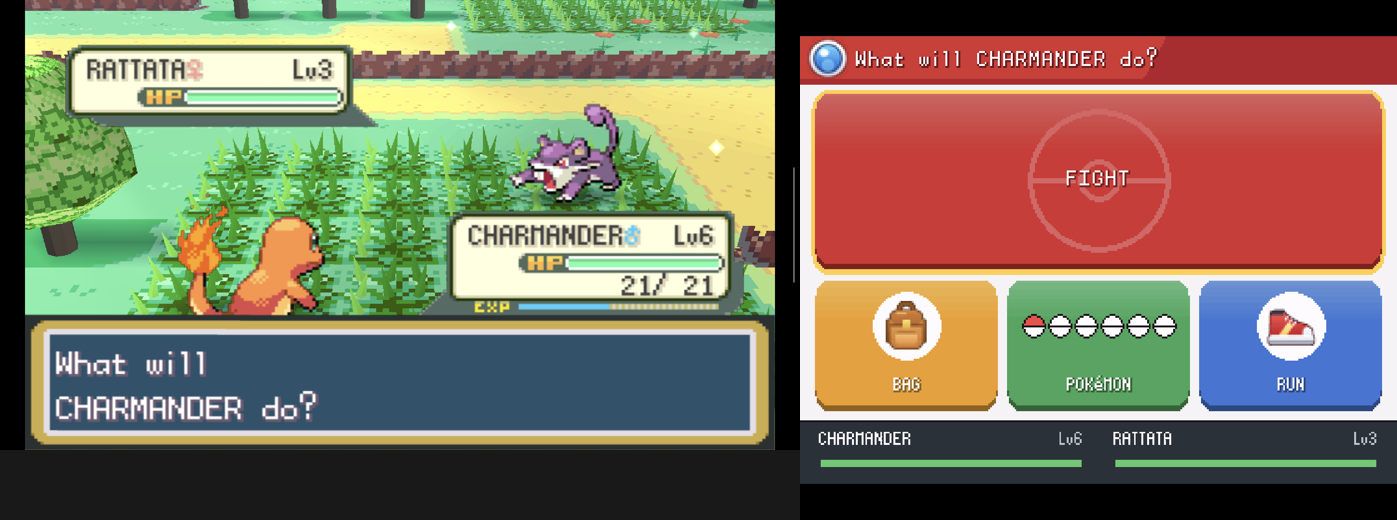
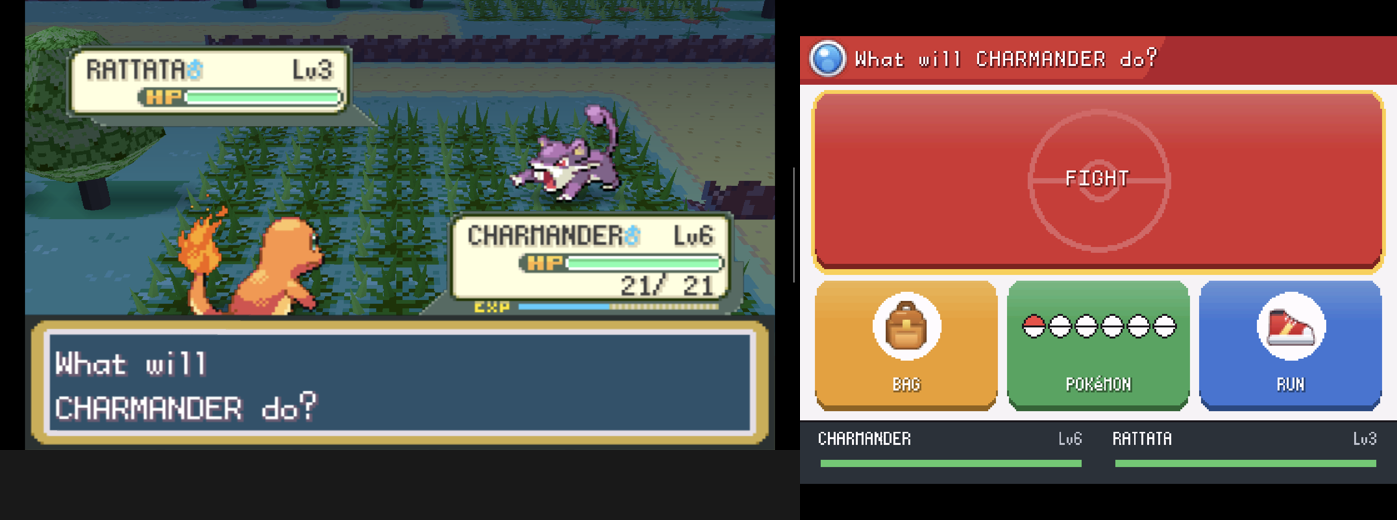
Revert "Document verified FireRed climate build with fresh Thor media"
This reverts commit b069114a052f8dc9a6a65c67673aaa088d59f012.

Changed region(s): [[0.0, 0.0, 0.554, 0.6154], [0.1231, 0.1231, 0.1539, 0.1538]]

diff --git a/README.md b/README.md
@@ -450,17 +450,3 @@ Let’s Go, Radical Red and Unbound passed the same November 19 APK on the Thor.
 ![radical actual Thor gameplay](docs/screenshots/graphics-gallery/radical-motion.gif)
 
 ![unbound actual Thor gameplay](docs/screenshots/graphics-gallery/unbound-motion.gif)
-
-
-<!-- FLORA CLIMATE START -->
-### 3D flowers and changing weather
-
-Qualified builds: firered. [Thor results and captures](https://zempoh.github.io/Pokemon-FireRed-3DS-Azahar/climate-3d.html).
-
-Set **Visual Climate → Automatic** for calendar seasons and season-weighted randomized weather. Weather is selected every 15 minutes of real time and fades over eight seconds; repeated selections can last longer. Reloading a map does not reroll it. Manual keeps fixed season/weather choices. Native scripted weather takes priority and cosmetic precipitation stays outdoors. This does not change battle weather or gameplay RNG. Winter currently whitens vegetation, not all ground. Asset coverage remains incomplete.
-
-**firered** — [verified bundle](https://github.com/ZempOh/Pokemon-FireRed-3DS-Azahar/releases/download/graphics-upgrade-2026-11-18/FireRed-3D-Flora-Climate-2026-11-19.zip)
-
-![firered fresh Thor gameplay](docs/screenshots/graphics-gallery/firered-motion.gif)
-
-<!-- FLORA CLIMATE END -->
